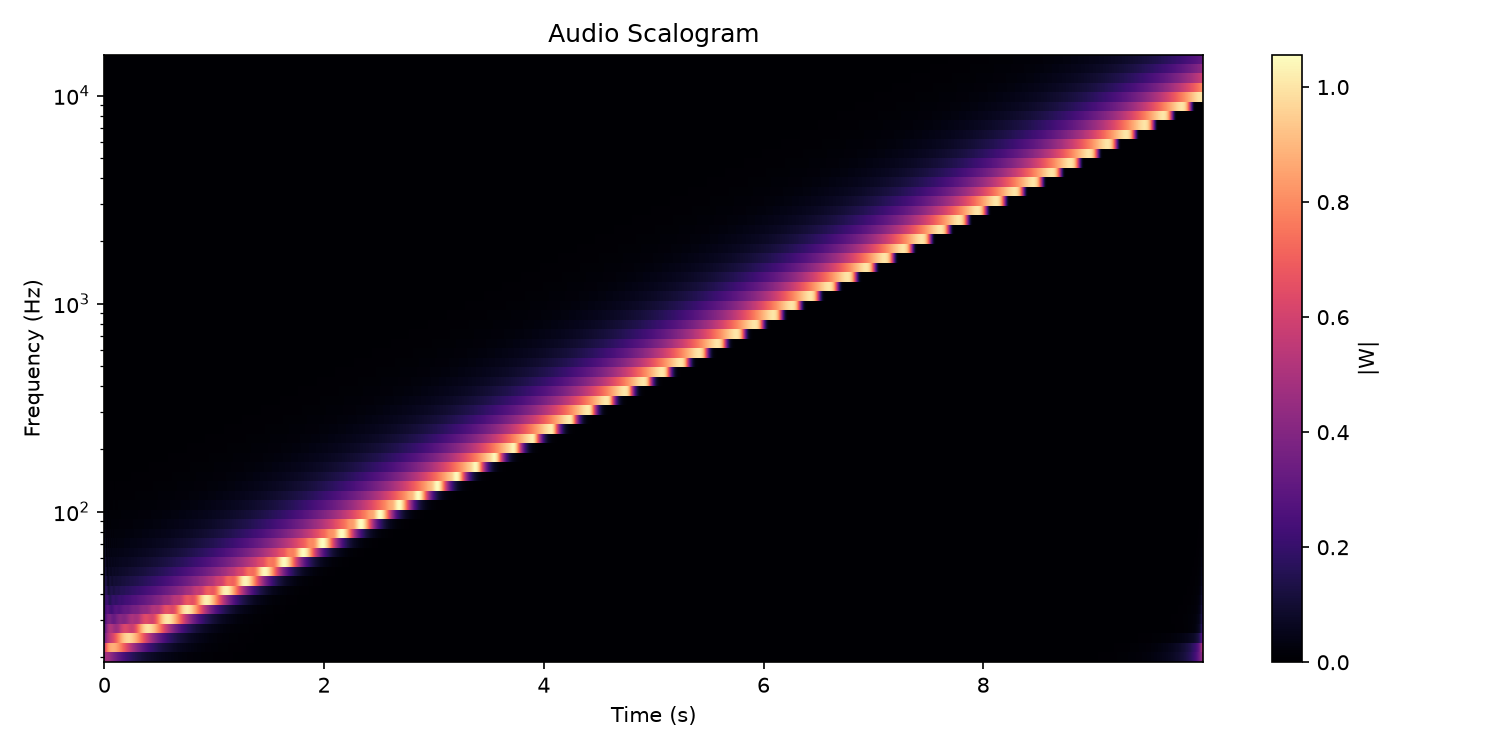
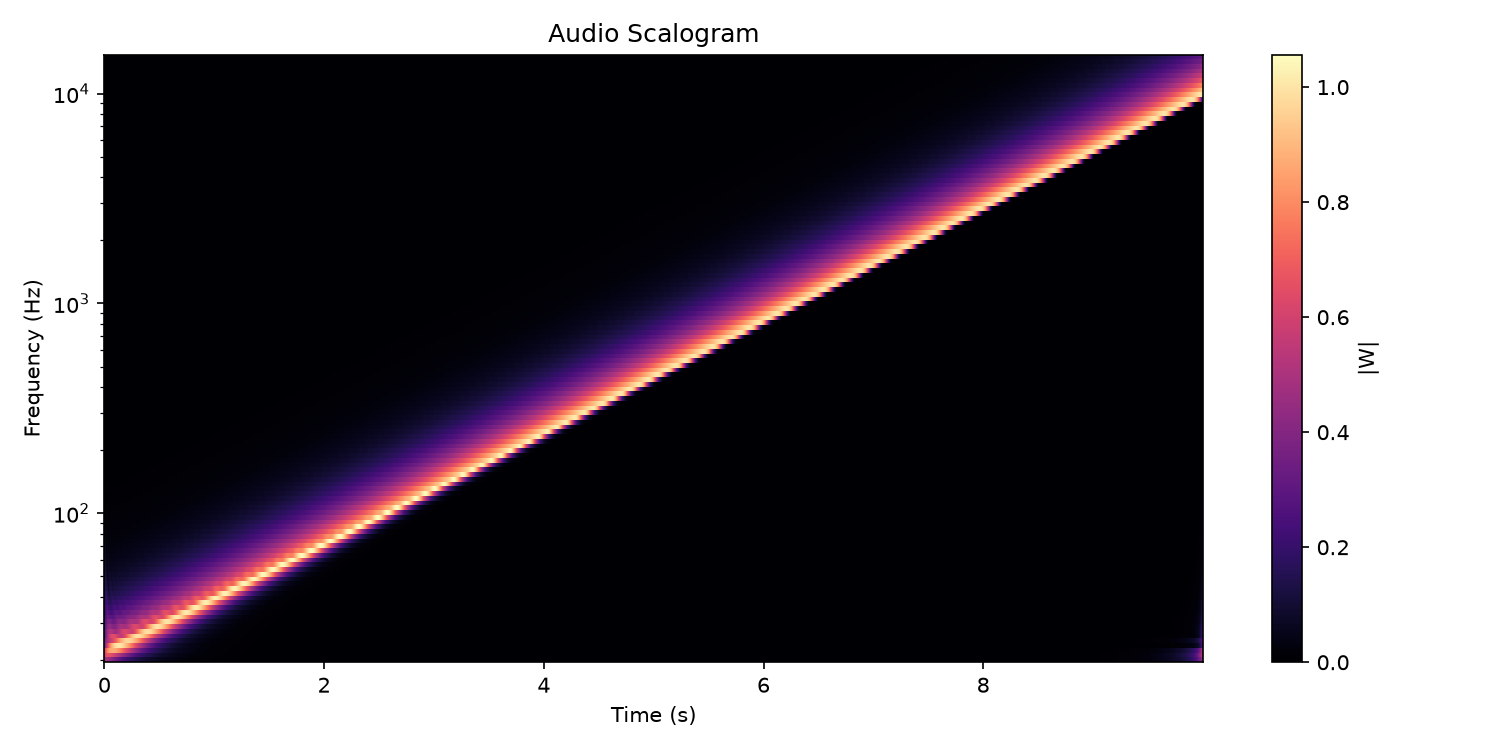
jax morse wavelet transform

Changed region(s): [[0.0613, 0.092, 0.7973, 0.8893], [0.0307, 0.6747, 0.0613, 0.7053], [0.0307, 0.1227, 0.0613, 0.1533]]

diff --git a/src/morse-wavelet.py b/src/morse-wavelet.py
@@ -140,7 +140,7 @@ def scalogram(
     sr: int,
     f_min: float = 20.0,
     f_max: float = 15000.0,
-    n_scales: int = 64,
+    n_scales: int = 128,
     beta: float = 3.0,
     gamma: float = 60.0,
     title: str = "Audio Scalogram",
